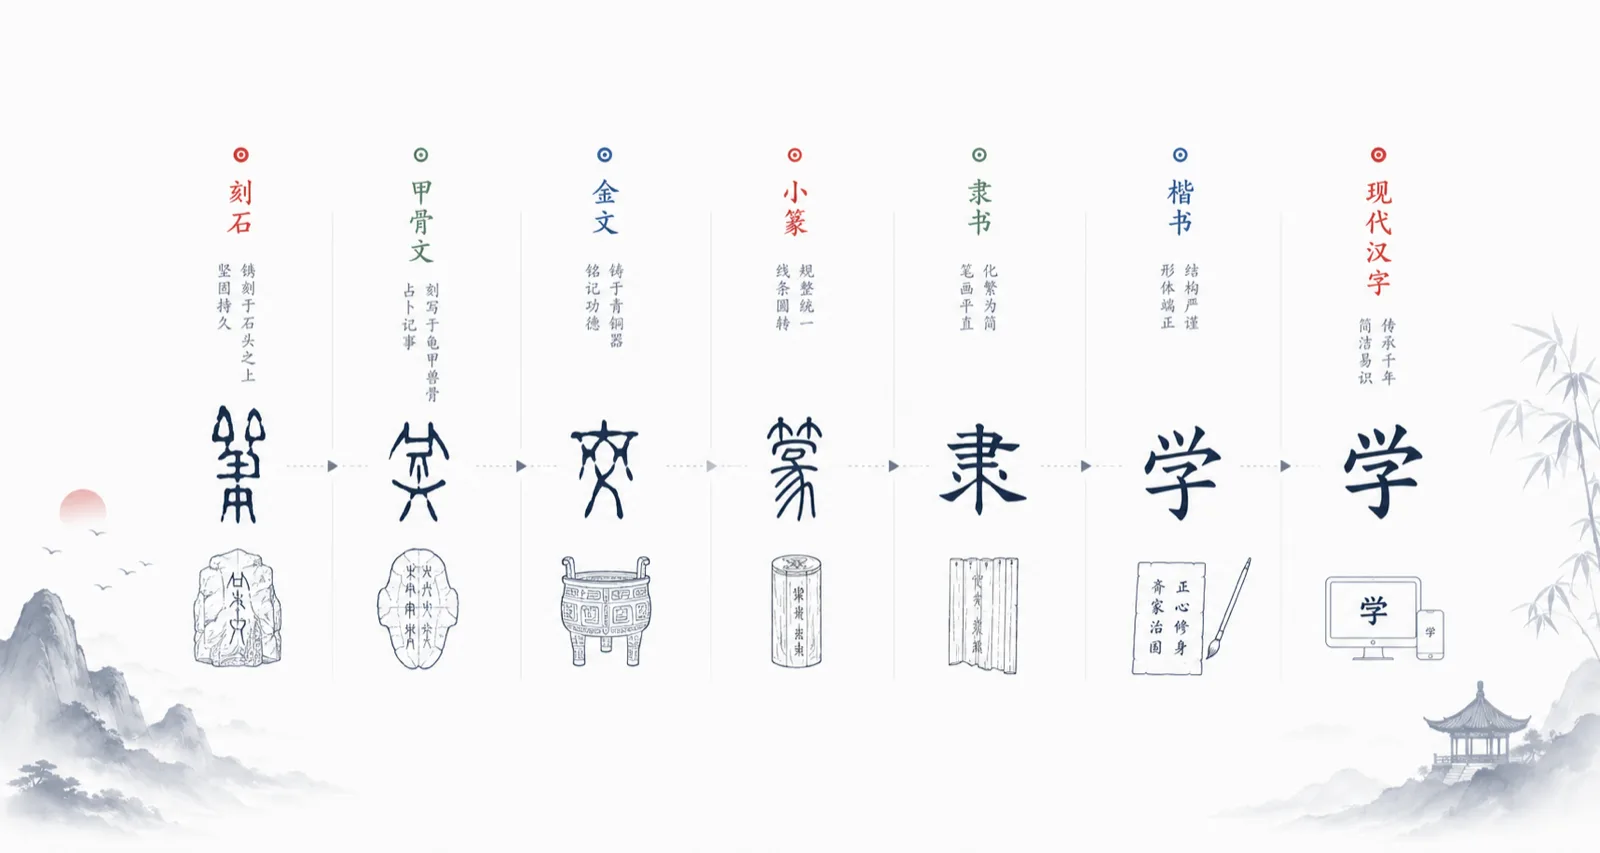
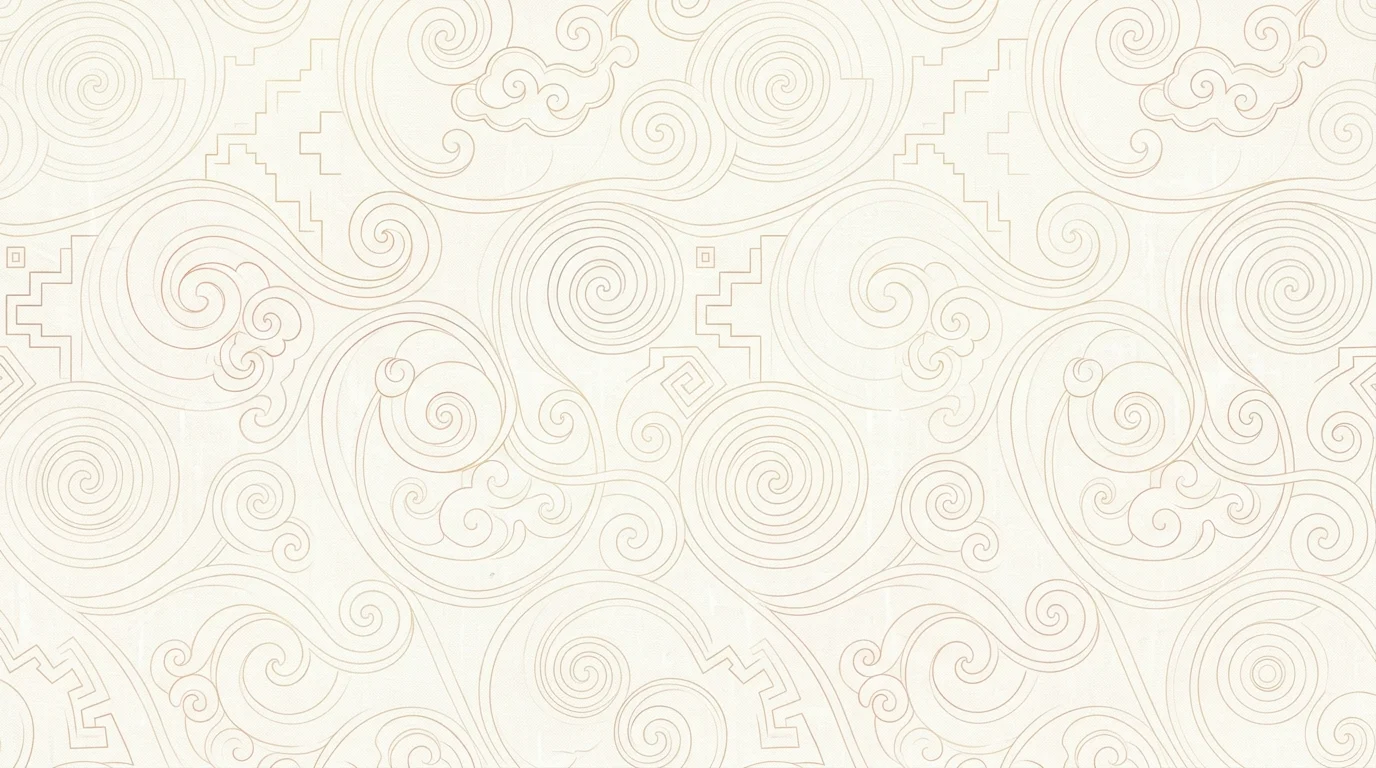
feat(theme): nuevo fondo sutil con patron de espirales fusion bolivia-china

diff --git a/assets/css/app-base.css b/assets/css/app-base.css
@@ -75,19 +75,19 @@ html[data-theme="dark"] body {
     background-image: radial-gradient(1100px 480px at 50% -120px, rgba(229, 57, 53, 0.09), transparent 70%);
 }
 
-/* Mural caligráfico (evolución de la escritura) reservado para el home.
-   Capa fija con fade para que el cambio de tab no repinte el body. */
+/* Patrón sutil recursivo con espirales (Fusión Bolivia - China: Tiwanaku/Chakana & Nubes Xiangyun).
+   Capa fija para una atmósfera continua sin repintar el body. */
 body::before {
     content: "";
     position: fixed;
     inset: 0;
     z-index: -1;
     background-image:
-        linear-gradient(rgba(255, 255, 255, 0.82), rgba(255, 255, 255, 0.92)),
+        linear-gradient(rgba(255, 255, 255, 0.84), rgba(255, 255, 255, 0.92)),
         url("../images/background01.webp");
     background-size: cover;
     background-position: center;
-    opacity: 0;
+    opacity: 0.7;
     transition: opacity 0.4s ease;
     pointer-events: none;
 }
@@ -96,11 +96,15 @@ html[data-theme="dark"] body::before {
     background-image:
         linear-gradient(rgba(10, 10, 15, 0.90), rgba(10, 10, 15, 0.95)),
         url("../images/background01.webp");
-    opacity: 0.9;
+    opacity: 0.75;
 }
 
 html[data-active-tab="home"] body::before {
     opacity: 1;
+}
+
+html[data-theme="dark"][data-active-tab="home"] body::before {
+    opacity: 0.9;
 }
 
 h1, h2, h3, h4, h5, h6 {

diff --git a/index.html b/index.html
@@ -76,7 +76,7 @@
     <!-- Styles -->
     <link rel="stylesheet" href="assets/css/design-tokens.css?v=d874e7b6" id="design-tokens">
     <!-- Split de styles-professional.css: el orden de estos <link> ES la cascada, no reordenar -->
-    <link rel="stylesheet" href="assets/css/app-base.css?v=a184c466" id="main-stylesheet">
+    <link rel="stylesheet" href="assets/css/app-base.css?v=136f09db" id="main-stylesheet">
     <link rel="stylesheet" href="assets/css/app-header-nav.css?v=9476ab97">
     <link rel="stylesheet" href="assets/css/app-home.css?v=624dabde">
     <link rel="stylesheet" href="assets/css/app-practice.css?v=f4eadb83">

diff --git a/templates/index.template.html b/templates/index.template.html
@@ -76,7 +76,7 @@
     <!-- Styles -->
     <link rel="stylesheet" href="assets/css/design-tokens.css?v=d874e7b6" id="design-tokens">
     <!-- Split de styles-professional.css: el orden de estos <link> ES la cascada, no reordenar -->
-    <link rel="stylesheet" href="assets/css/app-base.css?v=a184c466" id="main-stylesheet">
+    <link rel="stylesheet" href="assets/css/app-base.css?v=136f09db" id="main-stylesheet">
     <link rel="stylesheet" href="assets/css/app-header-nav.css?v=9476ab97">
     <link rel="stylesheet" href="assets/css/app-home.css?v=624dabde">
     <link rel="stylesheet" href="assets/css/app-practice.css?v=f4eadb83">

diff --git a/sw.js b/sw.js
@@ -1,4 +1,4 @@
-const SW_VERSION = "4.70.0+4485eba6";
+const SW_VERSION = "4.70.0+f805aac5";
 const STATIC_CACHE = `hsk-static-${SW_VERSION}`;
 const RUNTIME_CACHE = `hsk-runtime-${SW_VERSION}`;
 const CACHE_PREFIXES = [
@@ -13,7 +13,7 @@ const PRECACHE_FILES = [
   "./index.html",
   "./config/manifest.json",
   "./assets/css/design-tokens.css?v=d874e7b6",
-  "./assets/css/app-base.css?v=a184c466",
+  "./assets/css/app-base.css?v=136f09db",
   "./assets/css/app-header-nav.css?v=9476ab97",
   "./assets/css/app-home.css?v=624dabde",
   "./assets/css/app-practice.css?v=f4eadb83",
